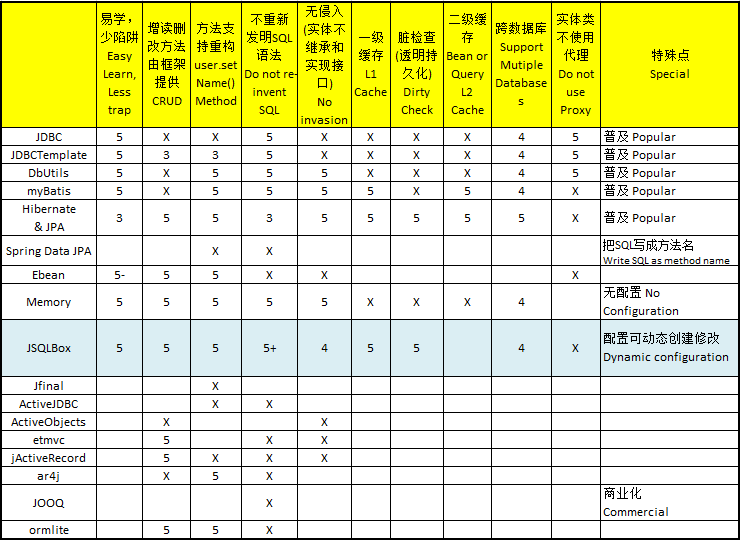
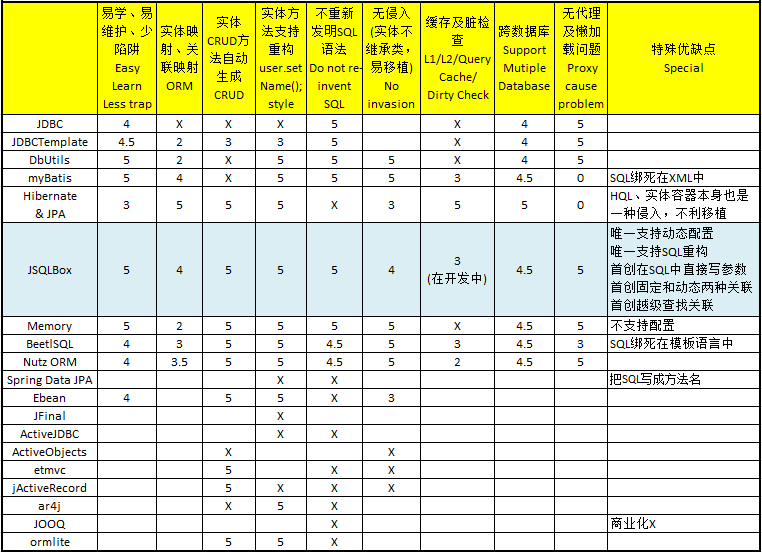
Update readme

diff --git a/README.md b/README.md
@@ -1,49 +1,51 @@
-##jSQLBox (In Developing)
+(English version see "README-English.md")
+
+##jSQLBox (In Developing)
 **License:** [Apache 2.0](http://www.apache.org/licenses/LICENSE-2.0)  
 
-jSQLBox是一个微型的、易学易用的、支持简单的O-R映射的持久层工具,目标是用来代替功能强大但过于复杂的Hibernate,以及一些相对简单但功能不尽人意的持久层工具如MyBatis/JDBC/JDBCTemplate/DButils/EBean/OpenJPA/jFinal/jActiveRecord/ActiveJDBC/JOOQ等。目前jSQLBox项目正在开发阶段,欢迎有兴趣者加入。 
+jSQLBox是一个微型的、易学易用的、支持简单的O-R映射的持久层工具,目标是用来代替功能强大但过于复杂的Hibernate,以及一些相对简单但功能不尽人意的持久层工具如MyBatis/JDBC/JDBCTemplate/DButils/EBean/OpenJPA/jFinal/jActiveRecord/ActiveJDBC/JOOQ/BeetlSQL/NutzDao等。目前jSQLBox项目正在开发阶段,欢迎有兴趣者加入。 
 
-一张对比图显示jSQLBox项目的定位和开发目标：(打分仅为个人看法,5分制,X表示不及格, 空着的表示不了解,不好打分）
+一张对比图显示jSQLBox项目的定位和开发目标：(打分仅为个人看法,0到5分制, 0~5分，X号表示重大缺陷，只要有X号即不推荐使用）
 ![image](jsqlbox.png)
-
+上表只是对软件架构方面的一个比较。速度、可靠性、开发成熟度、日志、文档等不在比较范围内，因为开源项目用的人多了,这些软件质量上的问题自然会日益改进，但是如果因为总体设计思路的问题，造成易用性和可维护性上存在重大缺陷，则无论怎样改进软件质量也是无法弥补的。										
 
 ###为什么要开发jSQLBox?
-因为作者发现了一种利用Java来代替XML和Annotation配置的方法,凡是利用XML和Annotation作为配置文件的项目,都存在着XML和Annotation不够灵活,配置文件不能动态生成、修改的问题,这对于需要动态生成或修改配置的场合是个致命缺陷。作者在完成jBeanBox项目后,发现Hibernate和MyBatiis这两个流行的持久层工具也都存在这个问题,这是jSQLBox项目产生的原因。简单说,jSQLBox的开发目标就是一个支持动态配置的持久化工具。这是一个先有了锤子,再找钉子的项目,Hiberante和MyBatis就是这个项目的两个钉子。  
+因为作者发现了一种利用Java初始块来代替XML和Annotation配置的方法(即"BOX"模式，详见jBeanBox项目),凡是利用XML和Annotation作为配置文件的项目,都存在着XML和Annotation不够灵活,配置文件不能动态生成、修改的问题,这对于需要动态生成或修改配置的场合是个致命缺陷。作者在完成jBeanBox项目后,发现Hibernate和MyBatiis这两个流行的持久层工具也都存在这个问题,这是jSQLBox项目产生的原因。简单说,jSQLBox的开发目标就是一个支持动态配置的持久化工具。这是一个先有了锤子,再找钉子的项目,Hiberante和MyBatis就是这个项目的两个钉子。  
 开发之前,作者研究了Hibernate存在的一些问题,主要归纳如下:  
-1)如前所述,配置是固定的,不能动态变化,对于需要在运行期动态创建或改变表名、列名、映射方式的场合,解决起来比较麻烦。  
+1)如前所述,配置是固定的,不能动态变化,对于需要在运行期动态创建或改变数据源、数据表、列名、映射方式的场合,解决起来比较麻烦。  
 2)缺省情况下,实体类为容器管理,导致任何对PO的更改都会写入数据库,这使得PO不能与VO共享字段,PO不能当成VO简单地传递到View层使用。  
-3)HQL语言是对SQL的包装,属于重新发明轮子,虽然HQL是操纵对象的,但HQL语言本身不是面向对象的,不支持IDE拼写检查和重构。   
-4)过度复杂,源码庞大(超过3千个类)。虽然号称无侵入的轻量级框架,但实体管理容器本身就是最大的入侵,采用了这种架构的项目就绑死在了Hibernate/JPA这种复杂的工具上了。  
+3)HQL语言是对SQL的包装,属于重新发明轮子,虽然HQL是操纵对象的,但非常讽刺地，HQL语言本身不是面向对象的,不支持IDE拼写检查和重构。   
+4)过度复杂,源码庞大(超过3千个类)。虽然号称无侵入的轻量级框架,但HQL和实体管理容器本身就是一种入侵,采用了这种架构的项目就绑死在了实体容器这种复杂的工具上了。  
 
-jSQLBox虽然最初目的是给Hibernate加一个动态配置,但考虑到容器管理实体架构开发及使用的复杂性,以及个人水平有限,借鉴了MyBatis的思路,即在运行期手工创建SQL进行数据库读写,如需用到OR映射时,在程序中动态配置并完成OR转换。与MyBatis不同的是jSQLBox在功能上添加了与Hibernate类似的行级缓存,并在易用性上作了极大改进,取消了繁琐的XML配置和注解,简单的CRUD之类SQL不必手工创建。
-与目前流行的一些小众持久层工具相比,jSQLBox则在功能上超出太多,例如一级(行级)缓存、二级(行级)缓存、查询缓存、动态配置、支持实体重构,支持SQL重构等,很多微型持久层工具都缺少上述这些对性能、开发、维护非常关键的特性。  
+jSQLBox虽然最初目的是给Hibernate加一个动态配置,但考虑到实体容器架构开发及使用的复杂性,以及个人水平有限,借鉴了MyBatis的思路,即在运行期如需用到OR映射时,在程序中动态配置并完成OR转换。与MyBatis不同的是jSQLBox在易用性上作了极大改进,取消了繁琐的XML配置和注解,简单的CRUD之类SQL更不必手工创建。
+与目前流行的一些小众持久层工具相比,jSQLBox则在功能上超出太多,例如跨数据库、对象缓存及查询缓存、简单的ORM支持、动态配置、支持实体重构,支持SQL重构，支持SQL直接写参数等,很多微型持久层工具都缺少若干项这些对性能、开发、维护非常关键的特性。
 
-###jSQLBox主要功能简介:
+###jSQLBox主要特点介绍:
 *简单,目前只有约30个Java类,是一个能够轻松架驭的微型工具,学习、维护、二次开发都很容易。  
 *提供CRUD方法,简单的CRUD操作占持久层大半的工作量,对一个持久层工具来说自动生成CRUD方法是必须提供的基本功能。   
 *基于ActiveRecord模式,无Session的显式注入。支持多上下文。但当仅有一个数据源时,鼓励运用全局缺省上下文来简化配置。
-*低侵入,PO类只需要声明实现Entity接口(仅适用于Java8及以上,对于Java7及以下需要继承自EntityBase类,或在实体类中添加一些方法)。 
+*低侵入,PO类只需要声明实现Entity接口(仅适用于Java8及以上,对于Java7及以下仍需要继承自EntityBase类)。 
 *没有XML,没有注解,没有脚本,没有模板,Java语言本身就可以充当配置文件。
 *不重新发明SQL语法,直接使用原生SQL。  
-*对SQL的包装,jSQLBox首创利用ThreadLocal将字符串拼接的SQL参数自动包装成preparedStatement,防止SQL注入,精简代码,提高可读性和可维护性。  
+*对SQL的包装,jSQLBox首创利用ThreadLocal将字符串拼接的SQL参数自动包装成preparedStatement,防止SQL注入,精简代码,提高可维护性。  
 *支持原生SQL重构,数据库列名变动、PO类字段变动等借由IDE的重构功能来管理,不需要手工检查已存在的SQL,保证了SQL的健壮性。   
-*无配置,按默认Java Bean命名规则,PO类自动适应数据库表,字段自动匹配驼峰式或下划线式数据表列名,无需任何配置文件。  
-*可配置,当数据库表名、字段名与缺省匹配规则不一致时,可用配置的方式来解决,配置为同目录或内嵌的"类名+Box"的Java类,也可将配置写在类初始化块中,这与jBeanBox项目的配置方式类似。  
-*多配置和动态配置,同一个PO可采用不同的配置以进行多种方式的存取,配置可以继承重用已有的配置,配置可以在运行期动态生成和修改,这与jBeanBox项目的配置方式类似。  
-*(开发中)一级缓存与脏检查,与Hibernate类似,提供以ID为主键的行级缓存,一级缓存在跨越多个方法的同一事务中有效,对PO的存取不再重复访问数据库。与Hibernate的区别在于jSQLBox一级缓存比较简单,只缓存实体,不缓存SQL命令。  
-*(开发中)二级缓存支持,类似于Hibernate的二级缓存,可配置第三方缓存工具如EHcache或Redis等。  
-*(开发中)查询缓存支持,类似于Hibernate的查询缓存。  
-*支持多主键,适于开发使用了业务主键的（遗留）数据库。  
-*跨数据库,内核建立在SpringJdbcTemplate上,只要JdbcTemplate支持的数据库都可以用,目前已在H2,MySql,Oracle上测试过,今后将进行更多的数据库单元测试。事务借用Spring的声明式事务。一些特殊的需求可以通过直接调用内核的JdbcTemplate来实现。
-*没有OpenSessionInView问题, PO类可以直接充当VO传递到View层,PO在View层事务已关闭情况下,依然可以继续存取数据库(工作在自动提交模式,但通常只读取)。  
-*(开发中)支持简单的O-R映射,有一对一,一对多,多对多,树结构四种映射类型。  
-*跨数据库的分页支持  
-*(开发中)脏数据版本检查功能  
+*无配置,按默认Java Bean命名规则,PO类自动适应数据库表,字段自动匹配驼峰式或下划线式数据表列名,无需配置文件。  
+*可配置,当数据库表名、字段名与缺省匹配规则不一致时,可用配置的方式来解决,配置为同目录或内嵌的"类名+Box"的Java类,也可将配置写在类初始化块中,与jBeanBox项目的配置类似。  
+*多配置和动态配置,同一个PO可采用不同的配置以进行多种方式的存取,配置可以继承重用已有的配置,配置可以在运行期动态生成和修改,与jBeanBox项目配置类似。  
+*(开发中)一级缓存与脏检查,与Hibernate类似,提供以ID为主键的行级缓存,一级缓存在跨越多个方法的同一事务中有效,对PO的存取不再重复访问数据库。与Hibernate的区别在于jSQLBox一级缓存比较简单,只缓存实体，包括已修改过的,不缓存SQL命令。  
+*(开发中)二级缓存和查询缓存,类似于Hibernate的缓存设计,可配置第三方缓存工具如EHcache等。  
+*支持多种主键生成方式，与Hibernate/JPA类似，目前支持9种主键生成方式，也可自定义主键生成类。
+*支持多主键,适于使用了业务多主键的数据库。  
+*跨数据库,内核建立在SpringJdbcTemplate上,只要JdbcTemplate支持的数据库都可以用,目前已在H2,MySql,Oracle上测试过,今后将进行更多的数据库单元测试。事务借用Spring的声明式事务。一些特殊的需求可以通过直接调用内核的JdbcTemplate来实现，内核建立在JdbcTemplate上主要是利用它的声明式事务比较方便。
+*没有OpenSessionInView问题, PO类可以直接充当VO传递到View层,PO在View层事务已关闭情况下,依然可以继续存取数据库(工作在自动提交模式,但通常只读)。  
+*提供简单的O-R映射,有一对一,一对多,树结构三种映射类型，多对多可由两个一对多组合成。支持固定、动态关联和越级自动查找关联功能。  
+*跨数据库的分页支持 
 
 ###jSQLBox缺点:
-*比较新,缺少足够测试、文档、缺少开发和试用者(欢迎试用或加入项目开发,任何问题和建议都会促使它不断完善)。  
-*实体映射比较简单,只限于将单条SQL读取内容装配成对象树,不支持多重嵌套映射和懒加载,需要懒加载的场合须由用户自行在程序中手工模拟实现。  
+*比较新,缺少足够测试、文档、缺少开发和试用者(欢迎在个人项目中试用或加入开发组,任何问题和建议都会促使它不断完善)。  
+*实体映射比较简单,只限于将数据集内容装配成对象树,不支持多重嵌套映射和懒加载,需要懒加载的场合须由用户自行在程序中手工实现。或利用jSQLBox的无绑定关联来避免懒加载需求的出现。
 *暂不支持Blob,Clob类型的包装,待今后版本加入,目前可利用内核的JDBCTemplate来进行Blob,Clob字段的存取。 
+*暂无分库、分表、读写分离等功能，对于jSQLBox这种支持动态配置的持久层工具来说，以上功能应不难实现，将来可能作为测试示例加入。
 
 ###如何使用jSQLBox?
 在项目的pom.xml中加入:
